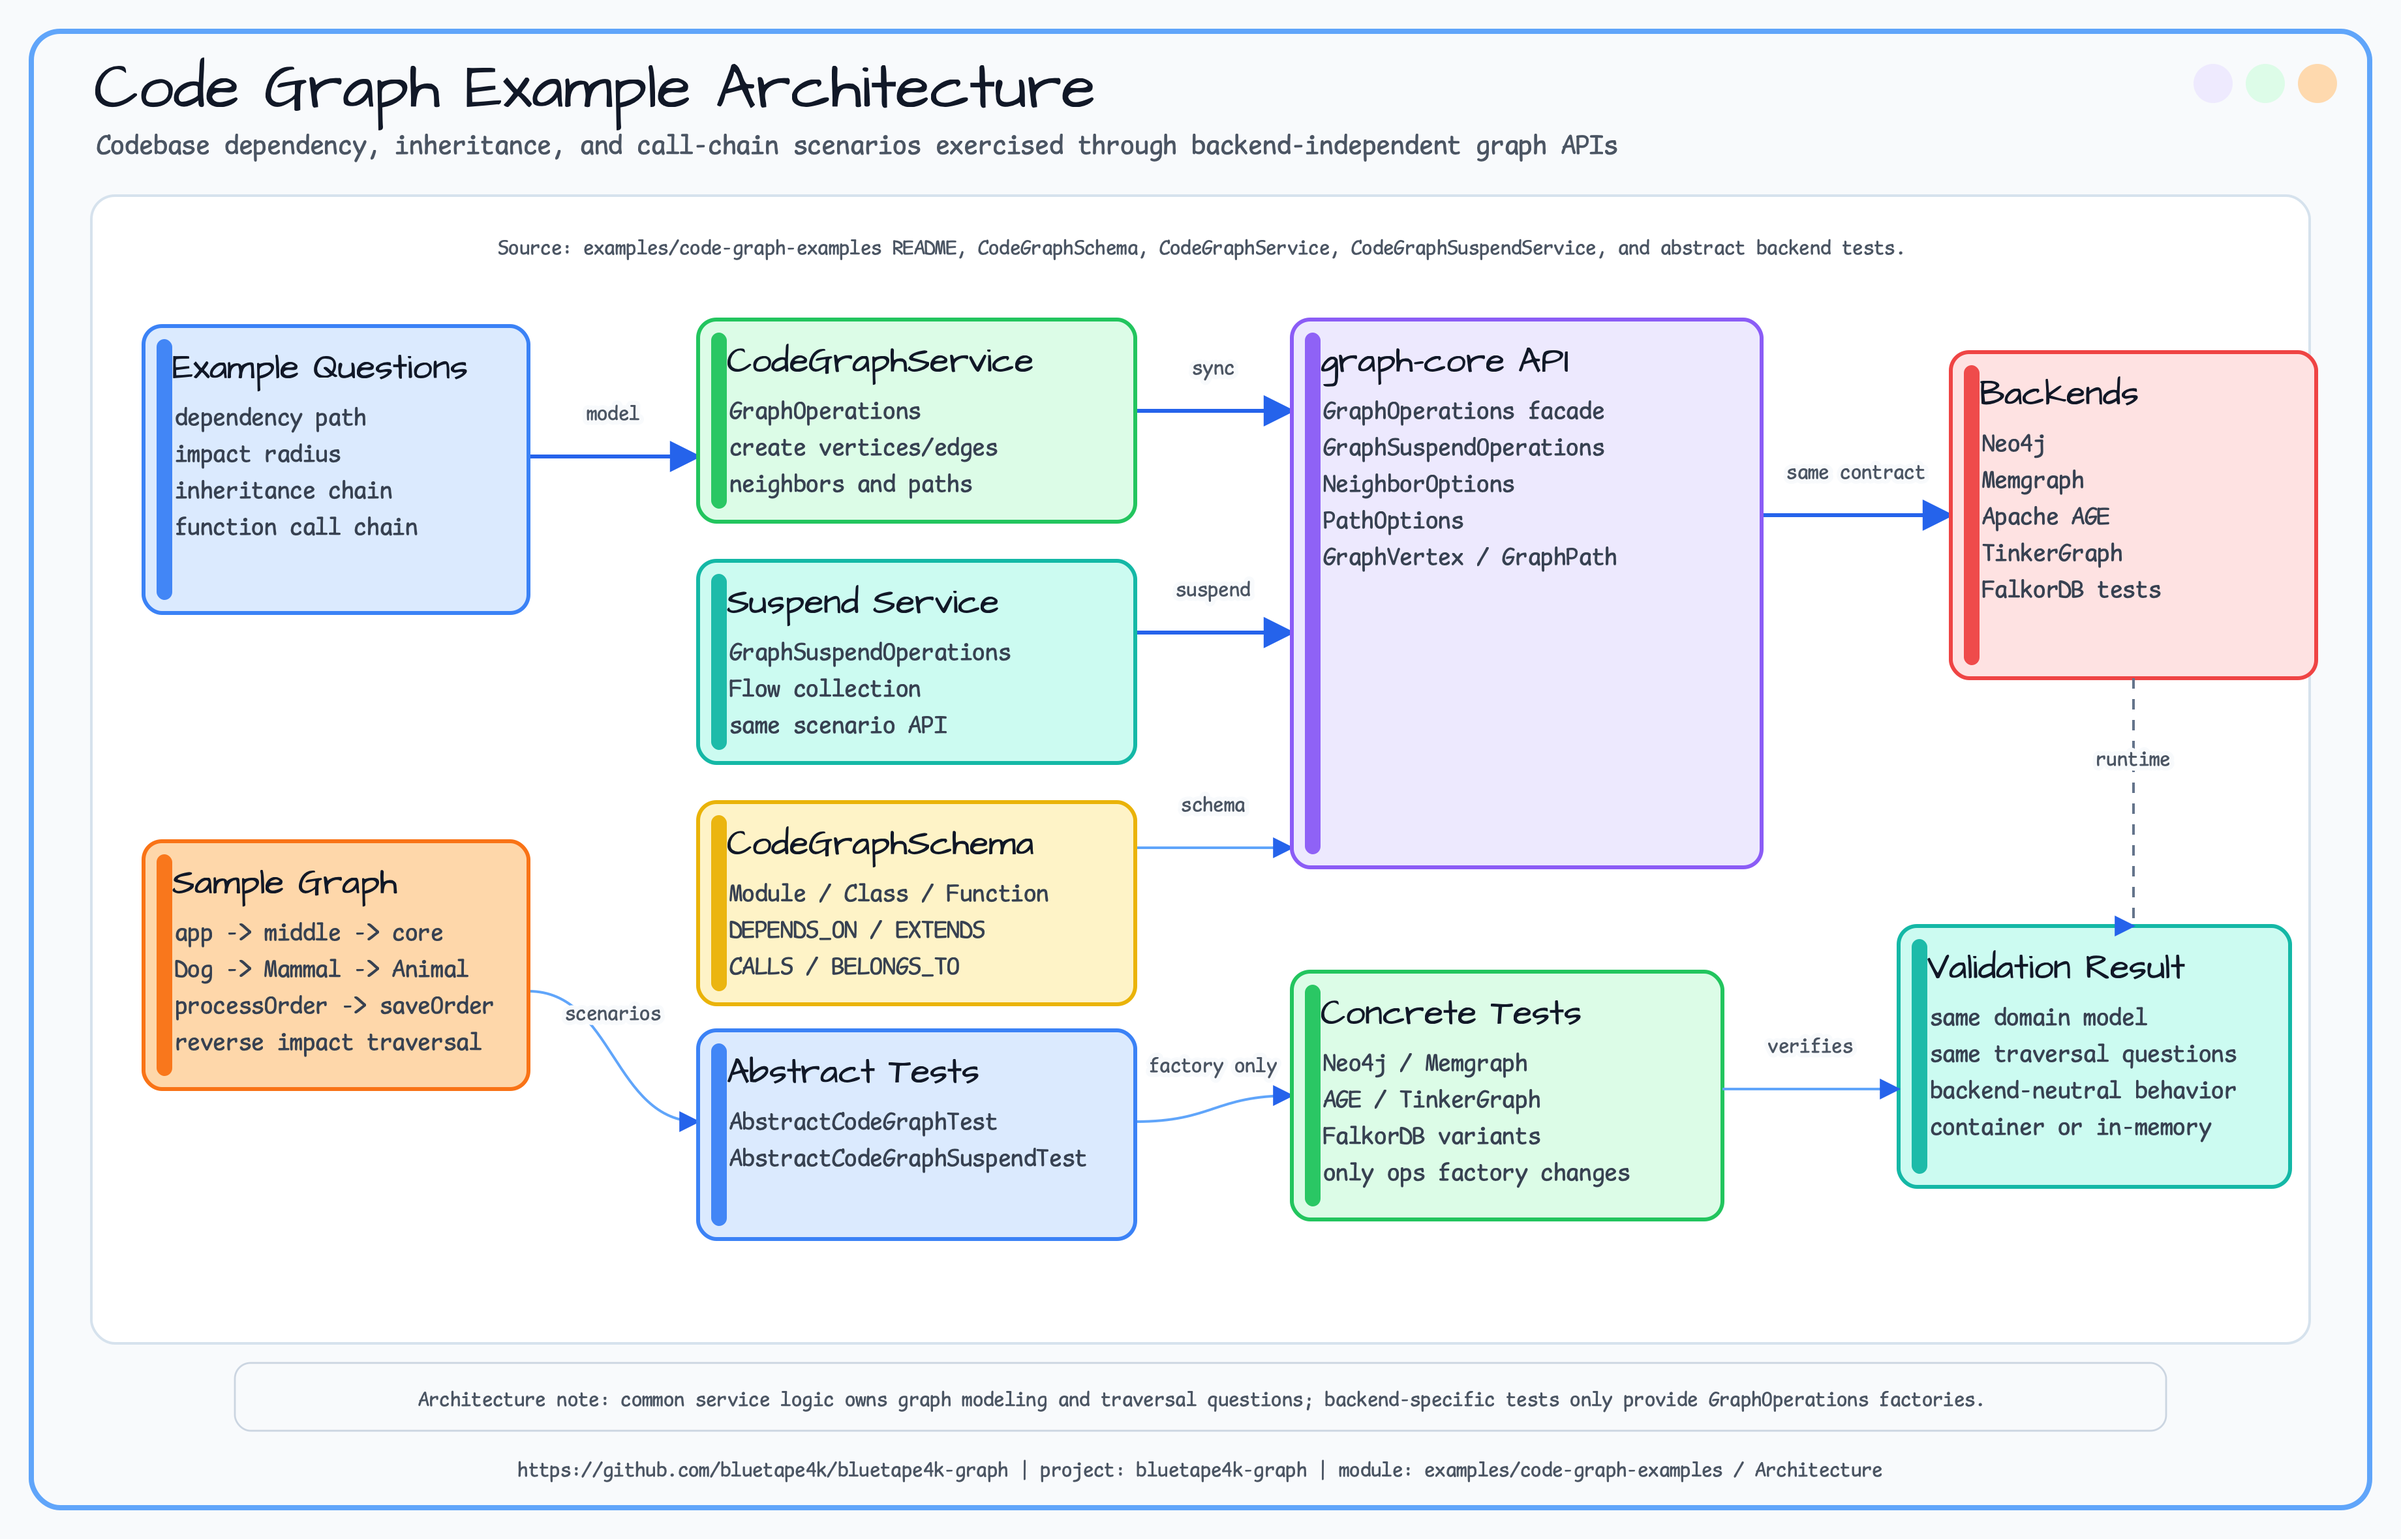
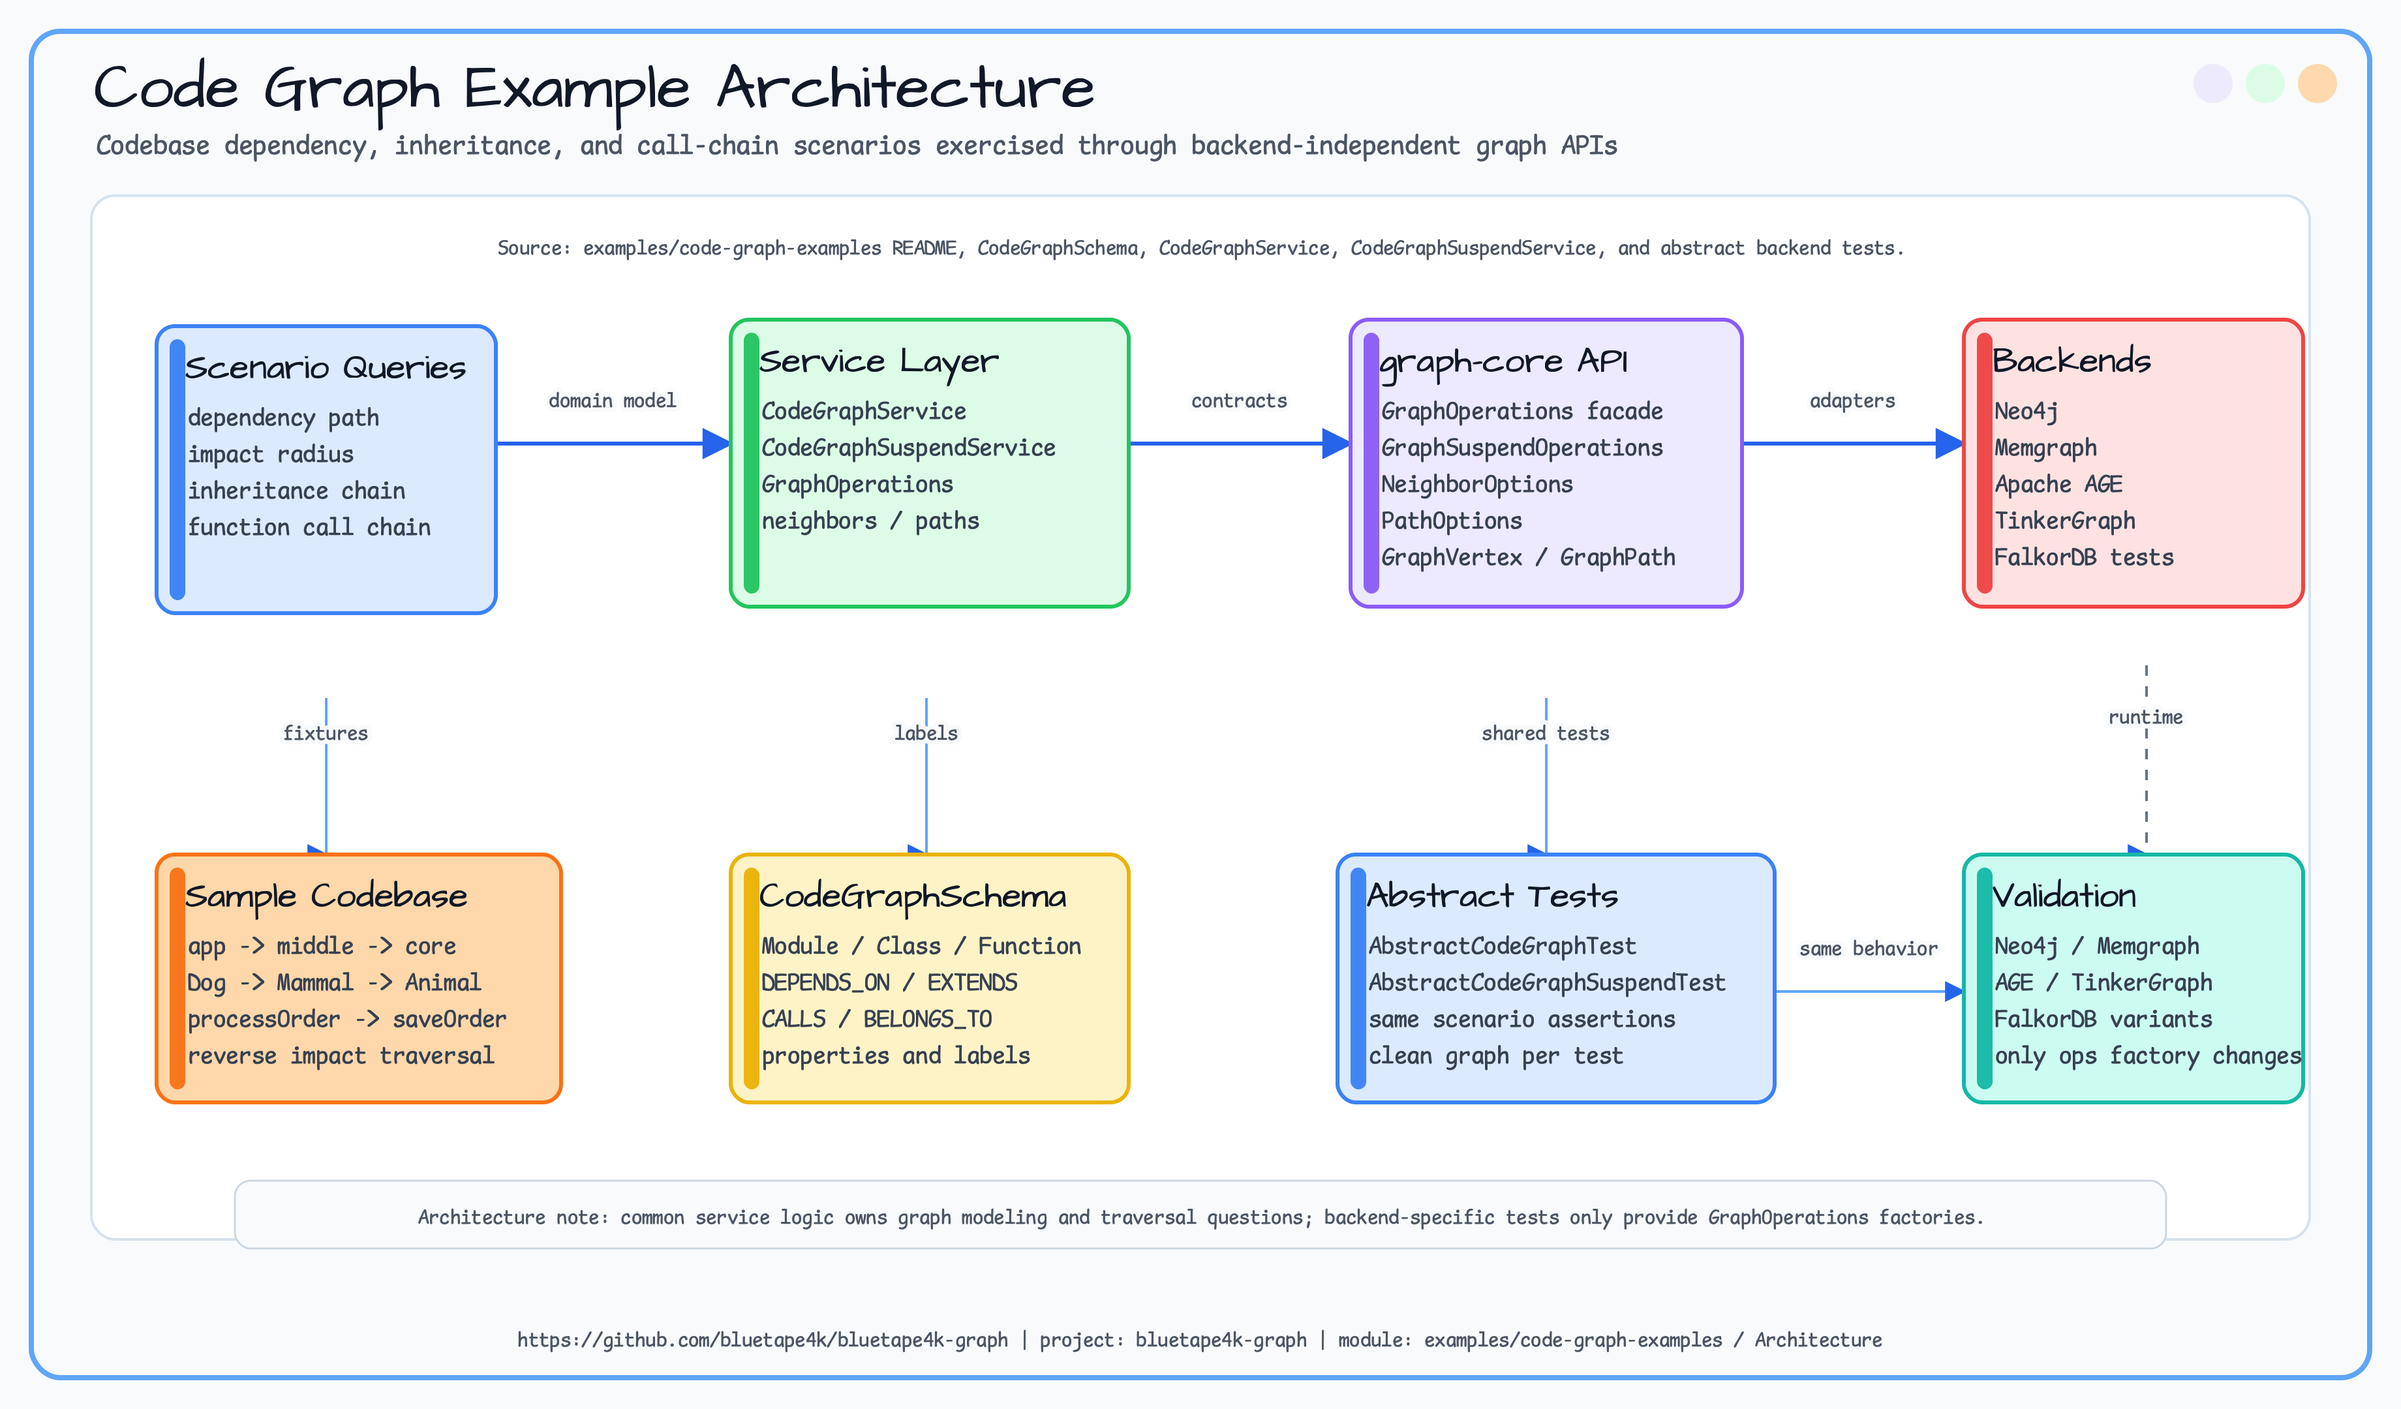
docs: refine code graph architecture layout
Rework the code-graph example architecture diagram toward the original overview quality bar: balanced top-level flow, separated lower validation lane, reduced arrow clutter, no oversized empty card, and clearer source-backed scenario progression.

Constraint: Use Fireworks-style SVG/PNG output with repository/module footer, Architects Daughter display text, Comic Mono small text, and user-requested no-build workflow.

Rejected: Keeping the previous sprawling layout | it technically rendered but did not meet the established visual quality bar.

Confidence: high

Scope-risk: narrow

Directive: Do not accept generated diagrams that merely pass XML/render checks; compare them visually against the established overview quality before publishing.

Tested: python3 -m py_compile scripts/generate-readme-visuals.py; SVG XML parse for examples-code-graph-examples-architecture-01.svg; find docs/images non-SVG/PNG scan; git diff --check; visual inspection of examples-code-graph-examples-architecture-01.png.

Not-tested: Gradle build, skipped by user request.

diff --git a/scripts/generate-readme-visuals.py b/scripts/generate-readme-visuals.py
@@ -1768,7 +1768,7 @@ def root_backend_capability_matrix_svg() -> str:
 
 
 def code_graph_examples_architecture_svg() -> str:
-    width, height = 1840, 1180
+    width, height = 1840, 1080
     out = open_svg(
         "Code Graph Example Architecture",
         "Codebase dependency, inheritance, and call-chain scenarios exercised through backend-independent graph APIs",
@@ -1779,50 +1779,41 @@ def code_graph_examples_architecture_svg() -> str:
         f'<text x="{width/2}" y="{height-48}" text-anchor="middle" class="tiny">'
         f'{esc(REPOSITORY_URL)} | project: {esc(PROJECT_NAME)} | module: examples/code-graph-examples / Architecture</text>'
     )
-    out.append('<rect x="70" y="150" width="1700" height="880" rx="18" fill="#FFFFFF" stroke="#D6E2ED" stroke-width="2" filter="url(#softShadow)"/>')
+    out.append('<rect x="70" y="150" width="1700" height="800" rx="18" fill="#FFFFFF" stroke="#D6E2ED" stroke-width="2" filter="url(#softShadow)"/>')
     out.append(
         '<text x="920" y="195" text-anchor="middle" class="tiny">'
         'Source: examples/code-graph-examples README, CodeGraphSchema, CodeGraphService, CodeGraphSuspendService, and abstract backend tests.</text>'
     )
 
-    arrow(out, 405, 350, 535, 350, "model", "line")
-    arrow(out, 870, 315, 990, 315, "sync", "line")
-    arrow(out, 870, 485, 990, 485, "suspend", "line")
-    arrow(out, 870, 650, 990, 650, "schema", "thin")
-    arrow(out, 1350, 395, 1495, 395, "same contract", "line")
-    arrow(out, 405, 760, 535, 860, "scenarios", "thin")
-    arrow(out, 870, 860, 990, 840, "factory only", "thin")
+    arrow(out, 380, 340, 560, 340, "domain model", "line")
+    arrow(out, 865, 340, 1035, 340, "contracts", "line")
+    arrow(out, 1335, 340, 1505, 340, "adapters", "line")
+    arrow(out, 710, 535, 710, 655, "labels", "thin")
+    arrow(out, 250, 535, 250, 655, "fixtures", "thin")
+    arrow(out, 1185, 535, 1185, 655, "shared tests", "thin")
+    arrow(out, 1360, 760, 1505, 760, "same behavior", "thin")
+    arrow(out, 1645, 510, 1645, 655, "runtime", "dash")
 
-    card(out, 110, 250, 295, 220, "Example Questions", [
+    card(out, 120, 250, 260, 220, "Scenario Queries", [
         "dependency path",
         "impact radius",
         "inheritance chain",
         "function call chain",
     ], PALETTE["sky"])
-    card(out, 535, 245, 335, 155, "CodeGraphService", [
+    card(out, 560, 245, 305, 220, "Service Layer", [
+        "CodeGraphService",
+        "CodeGraphSuspendService",
         "GraphOperations",
-        "create vertices/edges",
-        "neighbors and paths",
+        "neighbors / paths",
     ], PALETTE["mint"])
-    card(out, 535, 430, 335, 155, "Suspend Service", [
-        "GraphSuspendOperations",
-        "Flow collection",
-        "same scenario API",
-    ], PALETTE["aqua"])
-    card(out, 535, 615, 335, 155, "CodeGraphSchema", [
-        "Module / Class / Function",
-        "DEPENDS_ON / EXTENDS",
-        "CALLS / BELONGS_TO",
-    ], PALETTE["lemon"])
-
-    card(out, 990, 245, 360, 420, "graph-core API", [
+    card(out, 1035, 245, 300, 220, "graph-core API", [
         "GraphOperations facade",
         "GraphSuspendOperations",
         "NeighborOptions",
         "PathOptions",
         "GraphVertex / GraphPath",
     ], PALETTE["lavender"])
-    card(out, 1495, 270, 280, 250, "Backends", [
+    card(out, 1505, 245, 260, 220, "Backends", [
         "Neo4j",
         "Memgraph",
         "Apache AGE",
@@ -1830,34 +1821,34 @@ def code_graph_examples_architecture_svg() -> str:
         "FalkorDB tests",
     ], PALETTE["rose"])
 
-    card(out, 110, 645, 295, 190, "Sample Graph", [
+    card(out, 120, 655, 310, 190, "Sample Codebase", [
         "app -> middle -> core",
         "Dog -> Mammal -> Animal",
         "processOrder -> saveOrder",
         "reverse impact traversal",
     ], PALETTE["peach"])
-    card(out, 535, 790, 335, 160, "Abstract Tests", [
+    card(out, 560, 655, 305, 190, "CodeGraphSchema", [
+        "Module / Class / Function",
+        "DEPENDS_ON / EXTENDS",
+        "CALLS / BELONGS_TO",
+        "properties and labels",
+    ], PALETTE["lemon"])
+    card(out, 1025, 655, 335, 190, "Abstract Tests", [
         "AbstractCodeGraphTest",
         "AbstractCodeGraphSuspendTest",
+        "same scenario assertions",
+        "clean graph per test",
     ], PALETTE["sky"])
-    card(out, 990, 745, 330, 190, "Concrete Tests", [
+    card(out, 1505, 655, 260, 190, "Validation", [
         "Neo4j / Memgraph",
         "AGE / TinkerGraph",
         "FalkorDB variants",
         "only ops factory changes",
-    ], PALETTE["mint"])
-    card(out, 1455, 710, 300, 200, "Validation Result", [
-        "same domain model",
-        "same traversal questions",
-        "backend-neutral behavior",
-        "container or in-memory",
     ], PALETTE["aqua"])
-    arrow(out, 1320, 835, 1455, 835, "verifies", "thin")
-    arrow(out, 1635, 520, 1635, 710, "runtime", "dash")
 
-    out.append('<rect x="180" y="1045" width="1480" height="52" rx="12" fill="#F8FAFC" stroke="#CBD5E1" stroke-width="1.4"/>')
+    out.append('<rect x="180" y="905" width="1480" height="52" rx="12" fill="#F8FAFC" stroke="#CBD5E1" stroke-width="1.4"/>')
     out.append(
-        '<text x="920" y="1078" text-anchor="middle" class="tiny">'
+        '<text x="920" y="938" text-anchor="middle" class="tiny">'
         'Architecture note: common service logic owns graph modeling and traversal questions; backend-specific tests only provide GraphOperations factories.</text>'
     )
     return close_svg(out)
